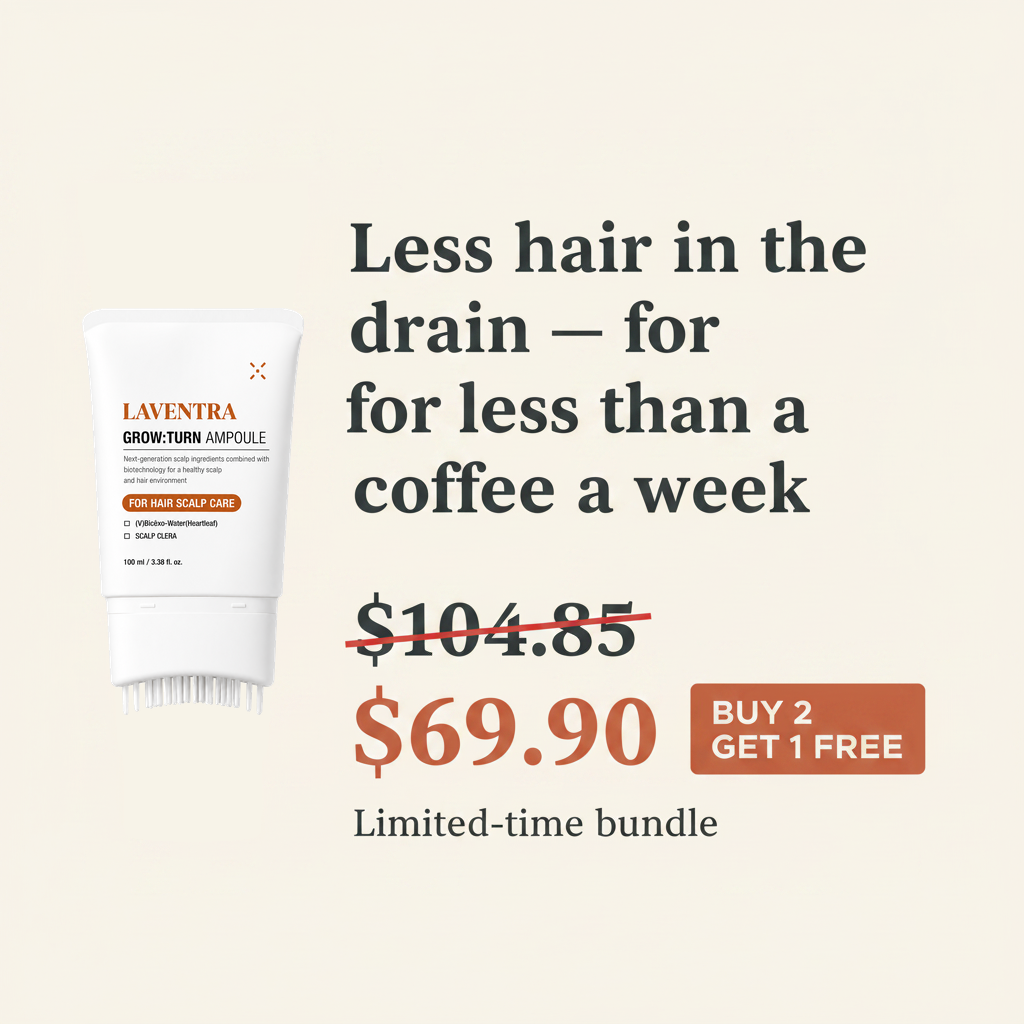
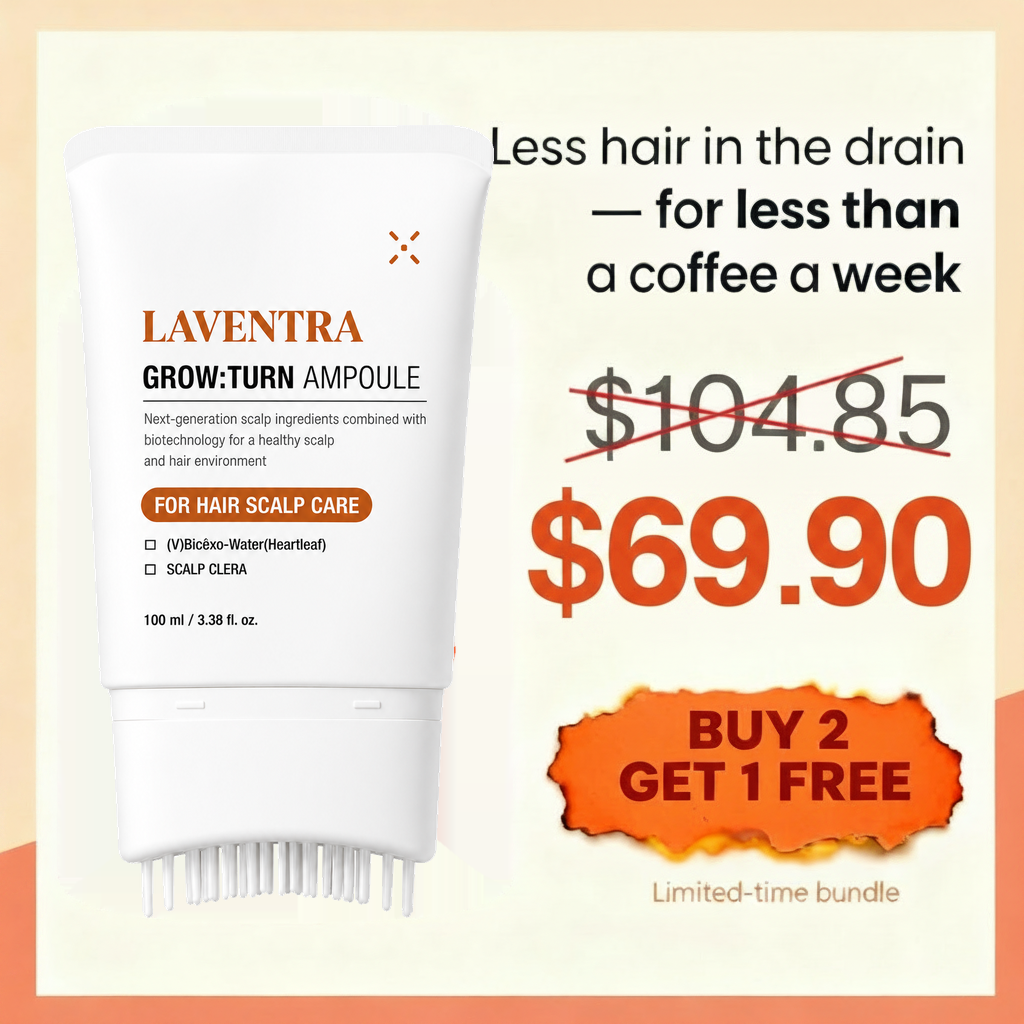
Promote repaired ad 18; fix S3 presigned upload; tighten pink-sweep threshold
- ad 18 (price anchor) finalized via the layout-repair pipeline: nano-banana
  text edits on the saved pre-composite layout (add missing dollar sign,
  dedupe scarcity line), then deterministic composite anchored bottom-left
  so the tube clears the headline
- higgsfield_backend upload: presigned S3 PUT must not carry the Higgsfield
  Authorization header (S3 rejects double auth)
- composite pink-sweep now requires b-g>20 so red-orange CTA pills are not
  mistaken for placeholder shading

Claude-Session: https://claude.ai/code/session_01Q5FHqgAXDzvjn6gpkwnYw2

diff --git a/.claude/skills/winning-statics/scripts/higgsfield_backend.py b/.claude/skills/winning-statics/scripts/higgsfield_backend.py
@@ -115,7 +115,12 @@ def upload(path, key, secret):
     info = api("POST", f"{BASE}/files/generate-upload-url", key, secret, body={"content_type": ct})
     with open(path, "rb") as f:
         blob = f.read()
-    api("PUT", info["upload_url"], key, secret, raw_body=blob, content_type=ct)
+    # presigned S3 PUT: the URL carries its own auth; adding the Higgsfield
+    # Authorization header makes S3 reject with "Only one auth mechanism allowed"
+    req = urllib.request.Request(info["upload_url"], data=blob,
+        headers={"Content-Type": ct, "User-Agent": USER_AGENT}, method="PUT")
+    with urllib.request.urlopen(req, timeout=300) as resp:
+        resp.read()
     return info["public_url"]
 
 

diff --git a/.workspace/gold_standard_ads.py b/.workspace/gold_standard_ads.py
@@ -151,7 +151,7 @@ def find_magenta(img):
     for y in range(max(0,miny-pad),min(H,maxy+pad+1)):
         for x in range(max(0,minx-pad),min(W,maxx+pad+1)):
             r,g,b=px[x,y]
-            if r>170 and r-g>40 and b>g and b-g>12 and g<r*0.78:
+            if r>170 and r-g>40 and b>g and b-g>20 and g<r*0.78:
                 mp[x,y]=255
     return m,(minx,miny,maxx,maxy)
 
